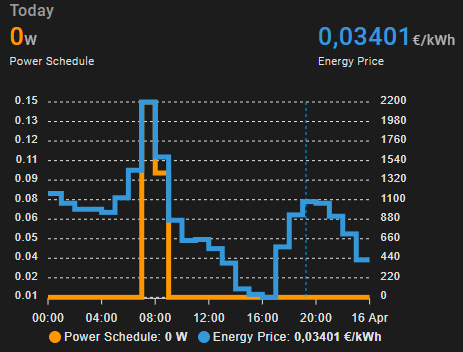
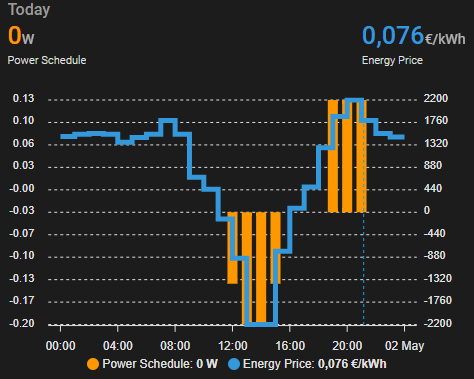
Change power schedule to bars #9

diff --git a/cards/DynamicSchedule.md b/cards/DynamicSchedule.md
@@ -32,7 +32,7 @@ series:
   - entity: sensor.sessy_XXXX_power_schedule
     yaxis_id: power
     name: Power Schedule
-    curve: stepline
+    type: column
     data_generator: |
       let hours = [];
       for(var i = 0; i < 24; i++){ hours.push(i); }
@@ -79,7 +79,7 @@ series:
   - entity: sensor.sessy_XXXX_power_schedule
     yaxis_id: power
     name: Power Schedule
-    curve: stepline
+    type: column
     data_generator: |
       let hours = [];
       for(var i = 0; i < 24; i++){ hours.push(i); }
